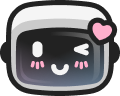
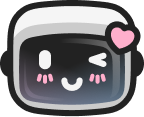
Increased pausenaut size for popup

diff --git a/popup/index.html b/popup/index.html
@@ -18,7 +18,7 @@
                 <picture id="stats-pausenaut">
                     <source id="stats-pausenaut-avif" type="image/avif">
                     <source id="stats-pausenaut-webp" type="image/webp">
-                    <img id="stats-pausenaut-img" width="60" height="48" alt="">
+                    <img id="stats-pausenaut-img" width="72" height="59" alt="">
                 </picture>
 
                 <output id="stats-big-number">--</output>
